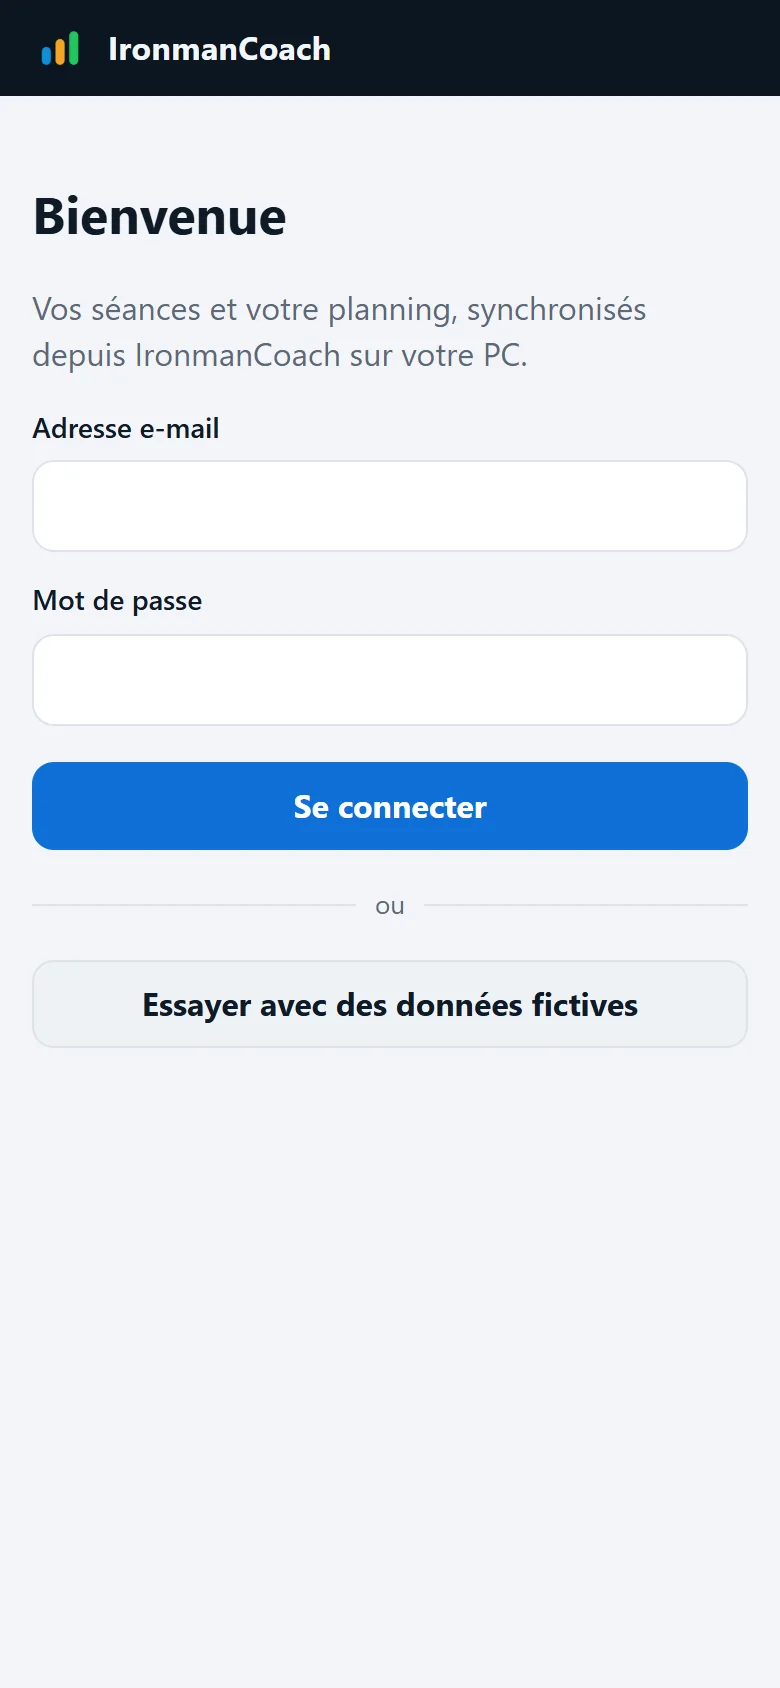
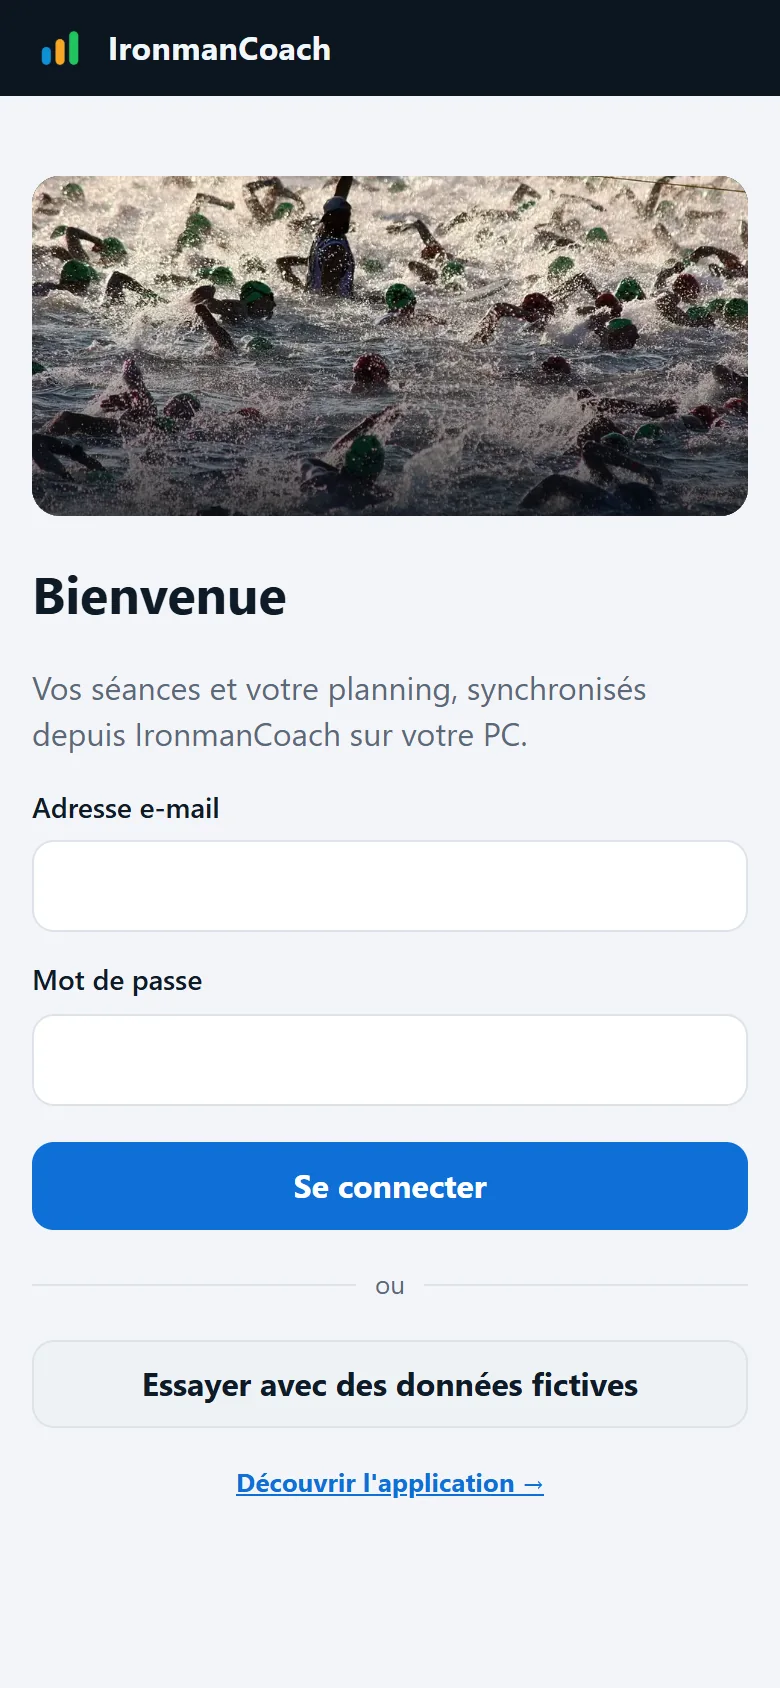
Photos de sportifs dans l'application
- couverture photo des séances du jour (natation, vélo, course, renfo)
- bannière photo de la semaine dans le Planning (discipline dominante)
- carte « Repos aujourd'hui » et écran de connexion illustrés
- crédits photos (Wikimedia Commons) dans le menu Compte
- photos mises en cache pour l'usage hors ligne ; captures de présentation mises à jour

diff --git a/app.js b/app.js
@@ -133,6 +133,26 @@
   const SPORT_LABEL = { swim: "Natation", bike: "Vélo", run: "Course", str: "Renforcement", other: "Autre" };
   const INTENSITY_LABEL = { warmup: "Échauffement", cooldown: "Retour au calme", recovery: "Récupération", rest: "Repos" };
 
+  // Photos d'ambiance (libres de droits, voir assets/photos/credits.json).
+  const PHOTOS = {
+    swim: [{ src: "assets/photos/swim.webp", pos: "50% 45%" }],
+    bike: [{ src: "assets/photos/bike.webp", pos: "62% 55%" }, { src: "assets/photos/bike-group.webp", pos: "50% 55%" }],
+    run: [{ src: "assets/photos/run.webp", pos: "72% 45%" }],
+    str: [{ src: "assets/photos/strength.webp", pos: "38% 30%" }],
+    rest: [{ src: "assets/photos/rest.webp", pos: "50% 55%" }],
+  };
+  function photoFor(key, seed = 0) {
+    const list = PHOTOS[key];
+    return list ? list[Math.abs(num(seed) || 0) % list.length] : null;
+  }
+  function photo(key, seed, cls, ...overlay) {
+    const p = photoFor(key, seed);
+    if (!p) return null;
+    return h("div", { class: "photo " + (cls || "") },
+      h("img", { src: p.src, alt: "", "aria-hidden": "true", loading: "lazy", decoding: "async", style: `object-position:${p.pos}` }),
+      overlay.length ? h("div", { class: "photo-overlay" }, overlay) : null);
+  }
+
   const isDone = (s) => num(s.feedback && s.feedback.completed) === 1 || /done|complet|r[ée]alis/i.test(s.status || "");
   const isCancelled = (s) => /cancel|annul|skip/i.test(s.status || "");
 
@@ -390,6 +410,7 @@
     }, "Essayer avec des données fictives");
 
     return h("section", { class: "login" },
+      photo("swim", 0, "login-hero"),
       h("h1", null, "Bienvenue"),
       h("p", { class: "muted" }, "Vos séances et votre planning, synchronisés depuis IronmanCoach sur votre PC."),
       CONFIGURED ? form : h("div", { class: "card", style: "margin-top:16px" },
@@ -433,12 +454,15 @@
 
     root.append(h("h2", { class: "section-title" }, name ? `Séances du jour, ${name}` : "Séances du jour"));
     if (today.length) {
-      today.forEach((s) => root.append(sessionCard(s, true)));
+      today.forEach((s) => root.append(sessionCard(s, true, true)));
     } else {
       const next = sessions().find((s) => s.session_date > iso && !isCancelled(s));
-      root.append(h("div", { class: "card empty" }, icon("sun"),
-        h("h2", null, "Repos aujourd'hui"),
-        next ? h("p", { class: "muted" }, `Prochaine séance : ${fmtDayShort.format(parseISO(next.session_date))} — ${next.title || SPORT_LABEL[sportKey(next.sport)]}`) : null));
+      root.append(h("div", { class: "card rest-card" },
+        photo("rest", 0, "rest-photo",
+          h("strong", { class: "overlay-title" }, "Repos aujourd'hui"),
+          h("span", { class: "overlay-sub" }, "La récupération fait partie du plan.")),
+        next ? h("p", { class: "rest-next" }, h("span", { class: "label" }, "Prochaine séance "), h("br"),
+          `${cap(fmtDayShort.format(parseISO(next.session_date)))} — ${next.title || SPORT_LABEL[sportKey(next.sport)]}`) : null));
     }
 
     root.append(loadSection(t), recoverySection(t));
@@ -497,7 +521,7 @@
   }
 
   // ---- Carte séance
-  function sessionCard(s, startOpen = false) {
+  function sessionCard(s, startOpen = false, withCover = false) {
     const sid = num(s.id);
     const sk = sportKey(s.sport);
     const key = String(sid);
@@ -515,7 +539,12 @@
     if (err) badges.push(h("span", { class: "badge bad" }, "Déplacement refusé"));
 
     const meta = [SPORT_LABEL[sk], fmtMin(s.duration_min)].filter(Boolean);
-    const card = h("article", { class: `card session sport-${sk}`, "open-detail": isOpen || null });
+    const card = h("article", { class: `card session sport-${sk}` + (withCover ? " with-cover" : ""), "open-detail": isOpen || null });
+    if (withCover) {
+      const cover = photo(sk, sid, "cover", h("span", { class: "cover-chip" }, SPORT_LABEL[sk]),
+        num(s.duration_min) ? h("span", { class: "cover-dur" }, fmtMin(s.duration_min)) : null);
+      if (cover) card.append(cover);
+    }
     const head = h("button", {
       class: "session-head", type: "button", "aria-expanded": String(isOpen),
       onclick: () => {
@@ -633,6 +662,8 @@
       h("p", { class: "muted" }, state.demo ? "Mode démonstration (données fictives)." : (state.session && state.session.email) || ""),
       at ? h("p", { class: "small" }, `Dernières données du PC : ${relTime(at)}.`) : null,
       state.snap && state.snap.app_version ? h("p", { class: "small muted" }, `IronmanCoach ${state.snap.app_version}`) : null,
+      h("p", { class: "small" }, h("a", { href: "presentation/", class: "link" }, "Présentation de l'application"),
+        " · ", h("button", { type: "button", class: "link", onclick: openCredits }, "Crédits photos")),
       h("div", { class: "actions" },
         h("button", { class: "btn", type: "button", onclick: () => dlg.close() }, "Fermer"),
         h("button", {
@@ -644,6 +675,23 @@
           },
         }, state.demo ? "Quitter la démo" : "Se déconnecter")));
     dlg.showModal();
+  }
+
+  async function openCredits() {
+    const body = $("#sheet-body");
+    const list = h("ul", { class: "credits" }, h("li", { class: "muted" }, "Chargement…"));
+    body.replaceChildren(h("h2", { id: "sheet-title" }, "Crédits photos"),
+      h("p", { class: "muted small" }, "Photos libres de droits issues de Wikimedia Commons."), list,
+      h("div", { class: "actions" }, h("button", { class: "btn", type: "button", onclick: () => $("#sheet").close() }, "Fermer")));
+    try {
+      const res = await fetch("assets/photos/credits.json");
+      const items = await res.json();
+      list.replaceChildren(...items.map((c) => h("li", null,
+        h("strong", null, ({ swim: "Natation", bike: "Vélo", "bike-group": "Vélo (groupe)", run: "Course", strength: "Renforcement", rest: "Repos" })[String(c.file).split("/").pop().replace(".webp", "")] || "Photo"),
+        " — ", c.author || "Auteur inconnu",
+        h("br"), h("span", { class: "muted" }, c.license || ""), " · ",
+        /^https:\/\/commons\.wikimedia\.org\//.test(c.source) ? h("a", { href: c.source, target: "_blank", rel: "noopener", class: "link" }, "source") : null)));
+    } catch { list.replaceChildren(h("li", { class: "muted" }, "Crédits indisponibles hors ligne.")); }
   }
 
   // ---- Planning
@@ -682,7 +730,13 @@
       ["swim", "bike", "run", "str", "other"].filter((k) => bySport[k]).map((k) =>
         h("span", { class: `badge sport-${k}`, style: "background:var(--sport-bg);color:var(--sport)" }, `${SPORT_LABEL[k]} ${fmtMin(bySport[k])}`)));
 
-    const root = h("section", null, h("h1", { class: "page-title" }, "Planning"), freshness(), nav, summary);
+    // Bannière : photo de la discipline dominante de la semaine.
+    const main = Object.entries(bySport).filter(([k]) => PHOTOS[k]).sort((a, b) => b[1] - a[1])[0];
+    const banner = photo(main ? main[0] : "rest", monday.getDate(), "week-hero",
+      h("span", { class: "overlay-kicker" }, cycle != null ? `${label} • S${cycle}` : label),
+      h("strong", { class: "overlay-title" }, total ? fmtMin(total) : "Semaine de repos"),
+      h("span", { class: "overlay-sub" }, total ? `d'entraînement prévu • ${week.length} séance${week.length > 1 ? "s" : ""}` : "Aucune séance prévue"));
+    const root = h("section", null, h("h1", { class: "page-title" }, "Planning"), freshness(), banner, nav, summary);
     const tIso = todayIso();
     days.forEach((iso) => {
       const list = week.filter((s) => String(s.session_date).slice(0, 10) === iso);

diff --git a/styles.css b/styles.css
@@ -241,6 +241,42 @@ main { max-width: 560px; margin: 0 auto; padding: 16px; outline: none; }
 .sheet-body { padding: 18px 16px calc(18px + var(--safe-bottom)); }
 .sheet h2 { margin: 0 0 4px; font-size: 20px; }
 
+/* ---- Photos ---- */
+.photo { position: relative; overflow: hidden; background: #0b1520; }
+.photo img { display: block; width: 100%; height: 100%; object-fit: cover; }
+.photo::after {
+  content: ""; position: absolute; inset: 0; pointer-events: none;
+  background: linear-gradient(180deg, rgba(5, 12, 20, 0) 35%, rgba(5, 12, 20, .72) 100%);
+}
+.photo-overlay {
+  position: absolute; left: 14px; right: 14px; bottom: 12px; z-index: 1;
+  display: flex; flex-direction: column; gap: 2px; color: #fff;
+  text-shadow: 0 1px 6px rgba(0, 0, 0, .45);
+}
+.overlay-kicker { font-size: 12px; font-weight: 800; letter-spacing: .6px; text-transform: uppercase; opacity: .9; }
+.overlay-title { font-size: 26px; font-weight: 850; line-height: 1.1; letter-spacing: -.3px; }
+.overlay-sub { font-size: 14px; opacity: .92; }
+
+.session.with-cover { border-left-width: 0; }
+.cover { height: 150px; }
+.cover .photo-overlay { flex-direction: row; align-items: center; justify-content: space-between; }
+.cover-chip {
+  padding: 3px 12px; border-radius: 999px; font-size: 13px; font-weight: 800;
+  background: var(--sport); color: #fff; text-shadow: none;
+}
+.cover-dur { font-size: 15px; font-weight: 800; }
+.session.with-cover .session-head { border-top: 4px solid var(--sport); }
+
+.rest-card { padding: 0; overflow: hidden; }
+.rest-photo { height: 190px; }
+.rest-next { margin: 0; padding: 12px 14px 14px; font-size: 15px; }
+
+.week-hero { height: 168px; border-radius: var(--radius); margin: 0 0 14px; box-shadow: var(--shadow); }
+.login-hero { height: 170px; border-radius: var(--radius); margin-bottom: 20px; }
+
+.link { padding: 0; border: 0; background: none; color: var(--accent); font: inherit; font-weight: 700; text-decoration: none; cursor: pointer; }
+.credits { list-style: none; margin: 12px 0 0; padding: 0; display: grid; gap: 10px; font-size: 14px; }
+
 .empty { text-align: center; padding: 28px 16px; }
 .empty svg { width: 36px; height: 36px; color: var(--muted); }
 

diff --git a/sw.js b/sw.js
@@ -1,10 +1,13 @@
 // Service worker : met en cache l'application (pas les donnees) pour
 // l'ouvrir hors ligne. Changer VERSION a chaque publication.
-const VERSION = "ic-pwa-1.1.0";
+const VERSION = "ic-pwa-1.2.0";
 const SHELL = [
   "./", "./index.html", "./styles.css", "./app.js", "./demo.js", "./config.js",
   "./manifest.webmanifest", "./icons/icon-192.png", "./icons/icon-512.png",
   "./icons/apple-touch-icon.png",
+  "./assets/photos/swim.webp", "./assets/photos/bike.webp", "./assets/photos/bike-group.webp",
+  "./assets/photos/run.webp", "./assets/photos/strength.webp", "./assets/photos/rest.webp",
+  "./assets/photos/credits.json",
 ];
 
 self.addEventListener("install", (event) => {
